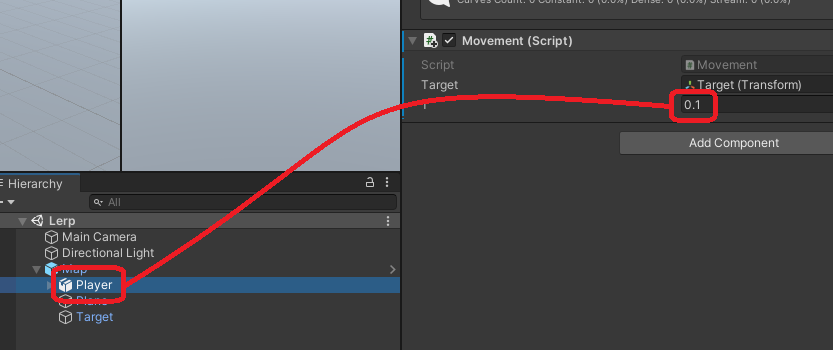
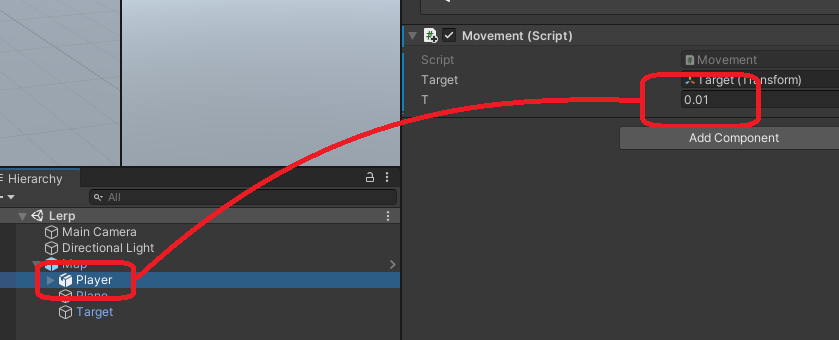
MoveToObject - Lerp 설명 추가

diff --git a/_posts/2022-10-18-move_to_target.md b/_posts/2022-10-18-move_to_target.md
@@ -8,12 +8,14 @@ layout: post
 
 <hr/>
 
-## Player Object를 Target의 위치로 이동시키는 방법에 대해 알아본다.
+<p>Player Object를 Target의 위치로 이동시키는 방법에 대해 알아본다.</p>
 
 ![Player and Object Image](../assets/Movement/MoveToTarget/Title.png)
 
-### 1) Set Position
 <hr/>
+
+### 1) Set Position
+
 
 <p>Player의 position vector를 Target의 position vector로 지정하는 방법.</p>
 
@@ -70,3 +72,10 @@ public class Movement : MonoBehaviour
 
 ![Lerp1](../assets/Movement/MoveToTarget/Lerp1.png)
 
+
+#### 실행 결과
+
+<img src="../assets/Movement/MoveToTarget/Lerp_result.gif" width="800px" height="400px" title="실행 결과" alt="실행 결과"/>
+
+*Movement 스크립트의 t 값에 따라 이동되는 속도가 달라진다. Set Position 방식보다 더 부드럽게 움직이는 것이 특징이다.*
+<hr/>
